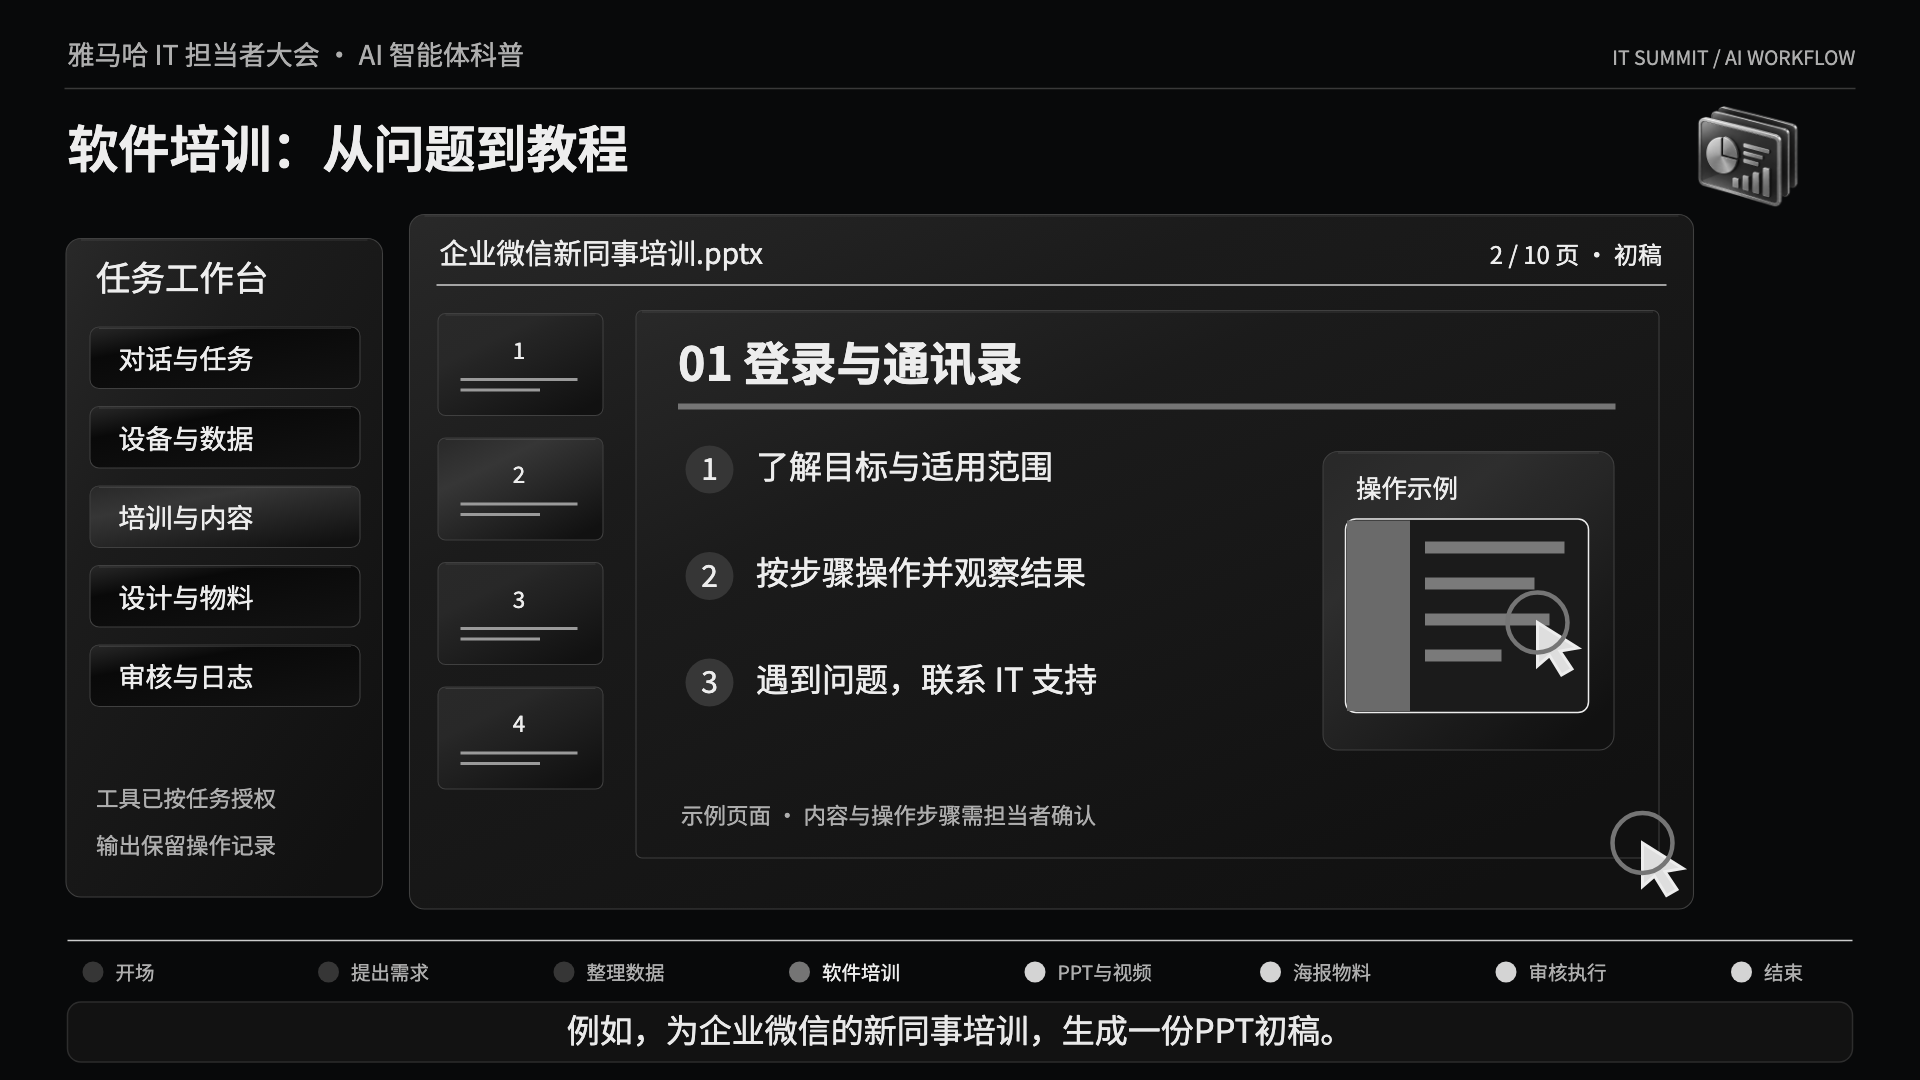
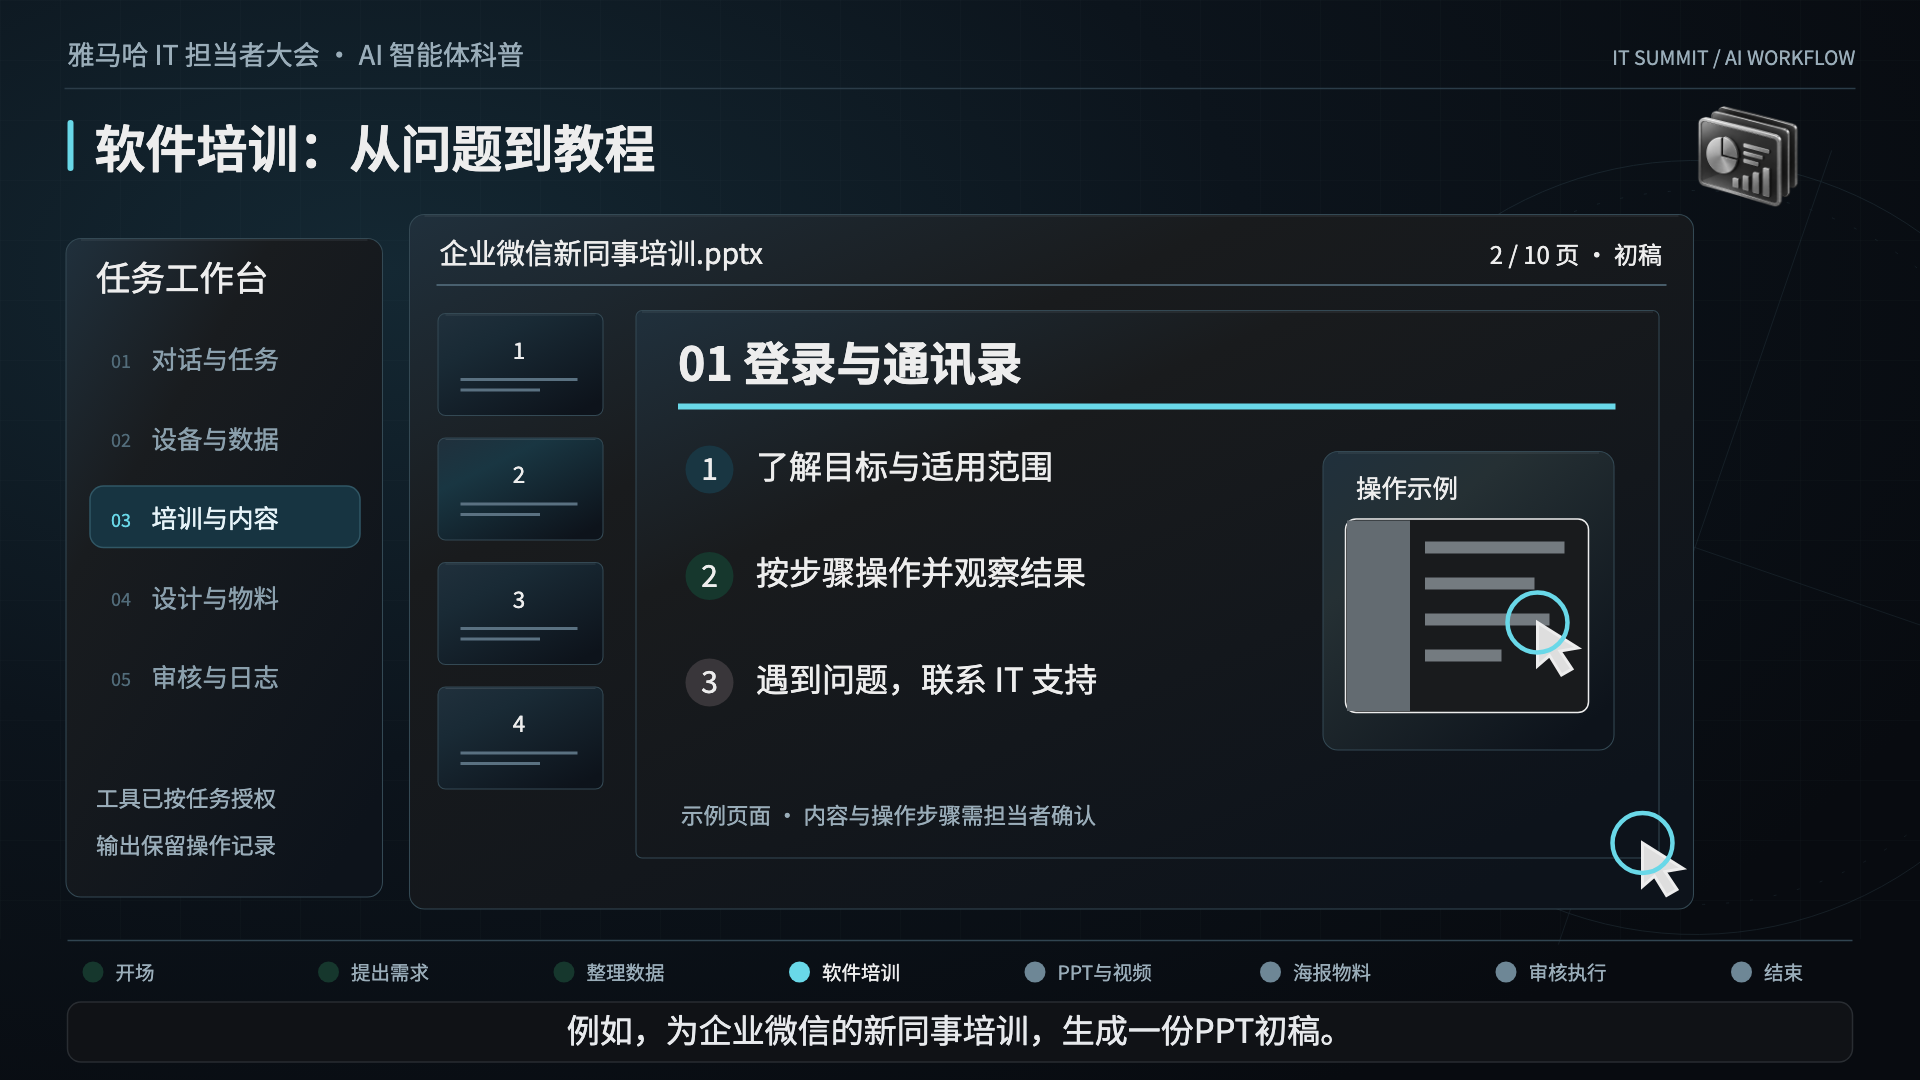
Redesign conference interface with accent hierarchy and capability cards

diff --git a/src/YamahaExplainer.tsx b/src/YamahaExplainer.tsx
@@ -1,3 +1,4 @@
+import { SceneBackdrop, InputDetails } from "./VisualTheme";
 import { IconAsset } from "./IconAsset";
 import { AIInputPanel } from "./AIInput";
 import React from "react";
@@ -176,7 +177,7 @@ const DataResult: React.FC<{ t: number }> = ({ t }) => (
     <Label x={1087} y={184} anchor="end" size={16}>
       ✓ 校验完成
     </Label>
-    <path d="M304 199h792" stroke="#ddd5b5" />
+    <path d="M304 199h792" stroke="#536b79" />
     {["设备清单", "汇总图表", "异常记录"].map((v, i) => (
       <g key={v}>
         <InkBox
@@ -327,7 +328,7 @@ const PPTResult: React.FC<{ t: number; guide: boolean }> = ({ t, guide }) => {
       <Label x={1108} y={176} size={16} anchor="end">
         {page + 1} / {guide ? 10 : 8} 页 · 初稿
       </Label>
-      <path d="M291 190h820" stroke="#d7cfb3" />
+      <path d="M291 190h820" stroke="#597383" />
       {[0, 1, 2, 3].map((i) => (
         <g key={i}>
           <InkBox
@@ -335,7 +336,7 @@ const PPTResult: React.FC<{ t: number; guide: boolean }> = ({ t, guide }) => {
             y={209 + i * 83}
             w={110}
             h={68}
-            fill={i === page ? palette.yellow : "#ece7d3"}
+            fill={i === page ? palette.yellow : "#192a35"}
             radius={5}
           />
           <Label x={346} y={239 + i * 83} anchor="middle" size={15}>
@@ -343,7 +344,7 @@ const PPTResult: React.FC<{ t: number; guide: boolean }> = ({ t, guide }) => {
           </Label>
           <path
             d={`M307 ${253 + i * 83}h78m-78 7h53`}
-            stroke="#aa9978"
+            stroke="#5a7181"
             strokeWidth="2"
           />
         </g>
@@ -546,12 +547,8 @@ const Chapter: React.FC<{ scene: (typeof scenes)[number] }> = ({ scene }) => {
   );
   return (
     <AbsoluteFill style={{ background: palette.paper }}>
-      <svg
-        viewBox="0 0 1280 720"
-        width="100%"
-        height="100%"
-        style={{ filter: "grayscale(1)" }}
-      >
+      <svg viewBox="0 0 1280 720" width="100%" height="100%">
+        <SceneBackdrop id={id} t={t} />
         <g
           opacity={fade}
           transform={`translate(${(1 - smooth(t, 0, 0.5)) * 25} 0)`}
@@ -562,8 +559,17 @@ const Chapter: React.FC<{ scene: (typeof scenes)[number] }> = ({ scene }) => {
           <Label x={1237} y={43} size={13} fill={palette.muted} anchor="end">
             IT SUMMIT / AI WORKFLOW
           </Label>
-          <path d="M43 59h1194" stroke="#353a40" strokeWidth="1" />
-          <Label x={45} y={112} size={34} weight={600}>
+          <path d="M43 59h1194" stroke="#2b3c48" strokeWidth="1" />
+          <path d="M43 59h250" stroke="url(#accentEdge)" strokeWidth="2" />
+          <rect
+            x={45}
+            y={80}
+            width={4}
+            height={34}
+            rx={2}
+            fill={palette.orange}
+          />
+          <Label x={63} y={112} size={34} weight={600}>
             {titles[id - 1]}
           </Label>
 
@@ -601,17 +607,42 @@ const Chapter: React.FC<{ scene: (typeof scenes)[number] }> = ({ scene }) => {
                 "审核与日志",
               ].map((v, i) => (
                 <g key={v}>
-                  <InkBox
-                    x={60}
-                    y={218 + i * 53}
-                    w={180}
-                    h={41}
+                  {i ===
+                    (id === 5 ? 2 : id === 6 ? 3 : id === 7 ? 4 : id - 2) && (
+                    <rect
+                      x={60}
+                      y={218 + i * 53}
+                      width={180}
+                      height={41}
+                      rx={9}
+                      fill="#173441"
+                      stroke="#315765"
+                    />
+                  )}
+                  <Label
+                    x={74}
+                    y={245 + i * 53}
+                    size={12}
                     fill={
-                      i === Math.min(4, id - 2) ? palette.yellow : palette.paper
+                      i ===
+                      (id === 5 ? 2 : id === 6 ? 3 : id === 7 ? 4 : id - 2)
+                        ? palette.orange
+                        : "#526c7a"
                     }
-                    radius={6}
-                  />
-                  <Label x={79} y={246 + i * 53} size={18}>
+                  >
+                    {String(i + 1).padStart(2, "0")}
+                  </Label>
+                  <Label
+                    x={101}
+                    y={246 + i * 53}
+                    size={17}
+                    fill={
+                      i ===
+                      (id === 5 ? 2 : id === 6 ? 3 : id === 7 ? 4 : id - 2)
+                        ? "#e6f3f8"
+                        : "#8ba0ad"
+                    }
+                  >
                     {v}
                   </Label>
                 </g>
@@ -761,7 +792,9 @@ const Chapter: React.FC<{ scene: (typeof scenes)[number] }> = ({ scene }) => {
                 y={156}
                 width={1190}
                 height={448}
-                fill={palette.paper}
+                rx={18}
+                fill="#0c141c"
+                stroke="#1a2d38"
               />
               {[
                 "数据整理",
@@ -775,20 +808,67 @@ const Chapter: React.FC<{ scene: (typeof scenes)[number] }> = ({ scene }) => {
                   key={name}
                   opacity={smooth(t, 7.3 + i * 0.13, 7.8 + i * 0.13)}
                 >
-                  <IconAsset
-                    index={i}
-                    x={255 + (i % 3) * 382}
-                    y={270 + Math.floor(i / 3) * 200}
-                    size={175}
+                  <InkBox
+                    x={68 + (i % 3) * 382}
+                    y={176 + Math.floor(i / 3) * 200}
+                    w={350}
+                    h={181}
+                    fill="#121e28"
+                    radius={17}
                   />
                   <Label
-                    x={255 + (i % 3) * 382}
-                    y={365 + Math.floor(i / 3) * 200}
+                    x={91 + (i % 3) * 382}
+                    y={206 + Math.floor(i / 3) * 200}
+                    size={11}
+                    fill={palette.orange}
+                  >
+                    {
+                      [
+                        "DATA / 01",
+                        "LEARNING / 02",
+                        "VIDEO / 03",
+                        "DESIGN / 04",
+                        "CONTROL / 05",
+                        "AGENT / 06",
+                      ][i]
+                    }
+                  </Label>
+                  <Label
+                    x={91 + (i % 3) * 382}
+                    y={256 + Math.floor(i / 3) * 200}
                     size={23}
-                    anchor="middle"
+                    weight={600}
                   >
                     {name}
                   </Label>
+                  <Label
+                    x={91 + (i % 3) * 382}
+                    y={283 + Math.floor(i / 3) * 200}
+                    size={12}
+                    fill={palette.muted}
+                  >
+                    {
+                      [
+                        "从台账到洞察",
+                        "从问题到教程",
+                        "从方案到演示",
+                        "从需求到视觉",
+                        "从授权到追踪",
+                        "从指令到交付",
+                      ][i]
+                    }
+                  </Label>
+                  <IconAsset
+                    index={i}
+                    x={339 + (i % 3) * 382}
+                    y={262 + Math.floor(i / 3) * 200}
+                    size={127}
+                  />
+                  <path
+                    d={`M${91 + (i % 3) * 382} ${330 + Math.floor(i / 3) * 200}h${70 + smooth(t, 7.3, 8.5) * 225}`}
+                    stroke="url(#accentEdge)"
+                    strokeWidth="1.5"
+                  />
                 </g>
               ))}
             </g>
@@ -800,9 +880,10 @@ const Chapter: React.FC<{ scene: (typeof scenes)[number] }> = ({ scene }) => {
                 y={127}
                 width={1280}
                 height={483}
-                fill={palette.paper}
+                fill="url(#sceneBackground)"
               />
               <AIInputPanel t={t} text={prompts[id - 1]} clear={false} />
+              <InputDetails />
             </g>
           )}
 
@@ -810,7 +891,7 @@ const Chapter: React.FC<{ scene: (typeof scenes)[number] }> = ({ scene }) => {
             <Cursor x={868} y={494} click />
           )}
         </g>
-        <path d="M45 627h1190" stroke="#d7ccac" />
+        <path d="M45 627h1190" stroke="#314551" />
         {scenes.map((s, i) => (
           <g key={s.id}>
             <circle
@@ -822,7 +903,7 @@ const Chapter: React.FC<{ scene: (typeof scenes)[number] }> = ({ scene }) => {
                   ? palette.orange
                   : s.id < id
                     ? palette.mint
-                    : "#dfd4b9"
+                    : "#6e8796"
               }
             />
             <Label

diff --git a/src/VisualTheme.tsx b/src/VisualTheme.tsx
@@ -1,0 +1,95 @@
+import React from "react";
+import { Label, palette } from "./design";
+export const SceneBackdrop: React.FC<{ id: number; t: number }> = ({
+  id,
+  t,
+}) => (
+  <>
+    <defs>
+      <radialGradient
+        id="sceneBackground"
+        cx={id % 2 ? ".83" : ".2"}
+        cy=".25"
+        r=".9"
+      >
+        <stop stopColor="#142833" />
+        <stop offset=".5" stopColor="#0c141c" />
+        <stop offset="1" stopColor="#080b10" />
+      </radialGradient>
+      <pattern
+        id="precisionGrid"
+        width="40"
+        height="40"
+        patternUnits="userSpaceOnUse"
+      >
+        <path
+          d="M40 0H0V40"
+          fill="none"
+          stroke="#7993a1"
+          strokeWidth=".35"
+          opacity=".1"
+        />
+      </pattern>
+      <linearGradient id="accentEdge">
+        <stop stopColor="#64d7e8" />
+        <stop offset="1" stopColor="#64d7e8" stopOpacity="0" />
+      </linearGradient>
+    </defs>
+    <rect width="1280" height="720" fill="url(#sceneBackground)" />
+    <rect width="1280" height="626" fill="url(#precisionGrid)" />
+    <g transform={`translate(1130 365) rotate(${t * 1.4})`} opacity=".12">
+      <circle r="258" stroke="#78adbf" strokeWidth=".6" fill="none" />
+      <circle
+        r="238"
+        stroke="#78adbf"
+        strokeWidth=".5"
+        strokeDasharray="2 14"
+        fill="none"
+      />
+      <path d="M-280 0h560M0-280v560" stroke="#78adbf" strokeWidth=".5" />
+    </g>
+  </>
+);
+export const InputDetails: React.FC = () => (
+  <g>
+    <Label x={210} y={235} size={12} fill={palette.orange}>
+      DESCRIBE YOUR TASK / 描述你的任务
+    </Label>
+    {["企业 IT 场景", "输出可编辑成品", "保留执行记录"].map((text, i) => (
+      <g key={text}>
+        <rect
+          x={210 + i * 275}
+          y={445}
+          width={250}
+          height={34}
+          rx={17}
+          fill="#111d26"
+          stroke="#294350"
+        />
+        <circle cx={229 + i * 275} cy={462} r={3} fill={palette.orange} />
+        <Label x={243 + i * 275} y={468} size={13} fill="#b2c4cf">
+          {text}
+        </Label>
+      </g>
+    ))}
+    {["01 理解需求", "02 制定计划", "03 交付成品"].map((text, i) => (
+      <g key={text}>
+        <Label
+          x={230 + i * 310}
+          y={540}
+          size={15}
+          fill={i === 0 ? palette.orange : "#68818f"}
+        >
+          {text}
+        </Label>
+        {i < 2 && (
+          <path
+            d={`M${365 + i * 310} 533h100m-5-4l5 4-5 4`}
+            fill="none"
+            stroke="#395361"
+          />
+        )}
+      </g>
+    ))}
+  </g>
+);

diff --git a/src/design.tsx b/src/design.tsx
@@ -2,14 +2,14 @@ import React from "react";
 import { interpolate, staticFile } from "remotion";
 import { IconAsset } from "./IconAsset";
 export const palette = {
-  paper: "#08090a",
+  paper: "#080b10",
   ink: "#ededed",
-  orange: "#727679",
-  yellow: "#343638",
-  mint: "#30383a",
+  orange: "#69d8e8",
+  yellow: "#193642",
+  mint: "#16372d",
   pink: "#39363a",
   violet: "#363a40",
-  muted: "#aaaeb3",
+  muted: "#9aadb9",
 };
 export const progress = (t: number, a: number, b: number) =>
   interpolate(t, [a, b], [0, 1], {
@@ -48,9 +48,9 @@ export const InkBox: React.FC<{
     <g>
       <defs>
         <linearGradient id={id} x2=".8" y2="1">
-          <stop stopColor="#25292e" />
+          <stop stopColor="#20303c" />
           <stop offset=".32" stopColor={normalized} />
-          <stop offset="1" stopColor="#101112" />
+          <stop offset="1" stopColor="#0d131b" />
         </linearGradient>
       </defs>
       <rect
@@ -60,7 +60,7 @@ export const InkBox: React.FC<{
         height={h}
         rx={radius}
         fill={`url(#${id})`}
-        stroke="#3b4147"
+        stroke="#344954"
         strokeWidth={0.7}
       />
       <path

diff --git a/README.md b/README.md
@@ -57,3 +57,7 @@ public/icons/it-metal-sprite-v2.png 为 imagegen 生成的 1536×1024 透明 PNG
 ## BGM 混音
 
 大会主片已换为 Almost in F / Kevin MacLeod 的轻柔氛围配乐（CC BY 4.0）。完整来源与署名见 public/audio/CREDITS.txt，片尾也含署名。public/audio/it-summit-ambient-ducked.wav 已按已确认配音预烘焙自动降音量、2 kHz 避让和首尾淡化；更换配音后需重新生成 ducking。配音与章节时长保持不变。
+
+## 大会界面设计修订
+
+新增 src/VisualTheme.tsx：低对比网格、缓慢仪表线、黑蓝渐变和冷青色强调。开场采用图文卡片，输入页含任务标签和三步流程，工作台采用带序号的高亮导航；内容与字幕时序不变。最终视觉修订成片沿用上一版舒缓配乐成片的完整音轨，避免改变已调整混音。

diff --git a/VALIDATION.md b/VALIDATION.md
@@ -26,3 +26,7 @@
 ## 舒缓配乐修订
 
 因用户反馈电子配乐过吵，替换为 Almost in F / Kevin MacLeod（CC BY 4.0），原人声不变。背景音轨约 -42.5 LUFS，比上一版约低 10 dB；配乐去低频轰鸣、限制高频、2 kHz 避让及缓慢 ducking，128.2 秒版本全片解码通过。Remotion lint/build 通过，音乐署名更新为 4.0。
+
+## 大会界面设计修订
+
+新增黑蓝渐变背景、低对比网格与仪表线、青色重点、图文能力卡片、输入页任务标签/流程和高亮导航。检查开场、输入、PPT 成品帧，文字无重叠裁切。ESLint/TypeScript 和 bundle 通过。主片仍为 3846 帧/128.2 秒，最终文件沿用舒缓配乐版的原音轨。
